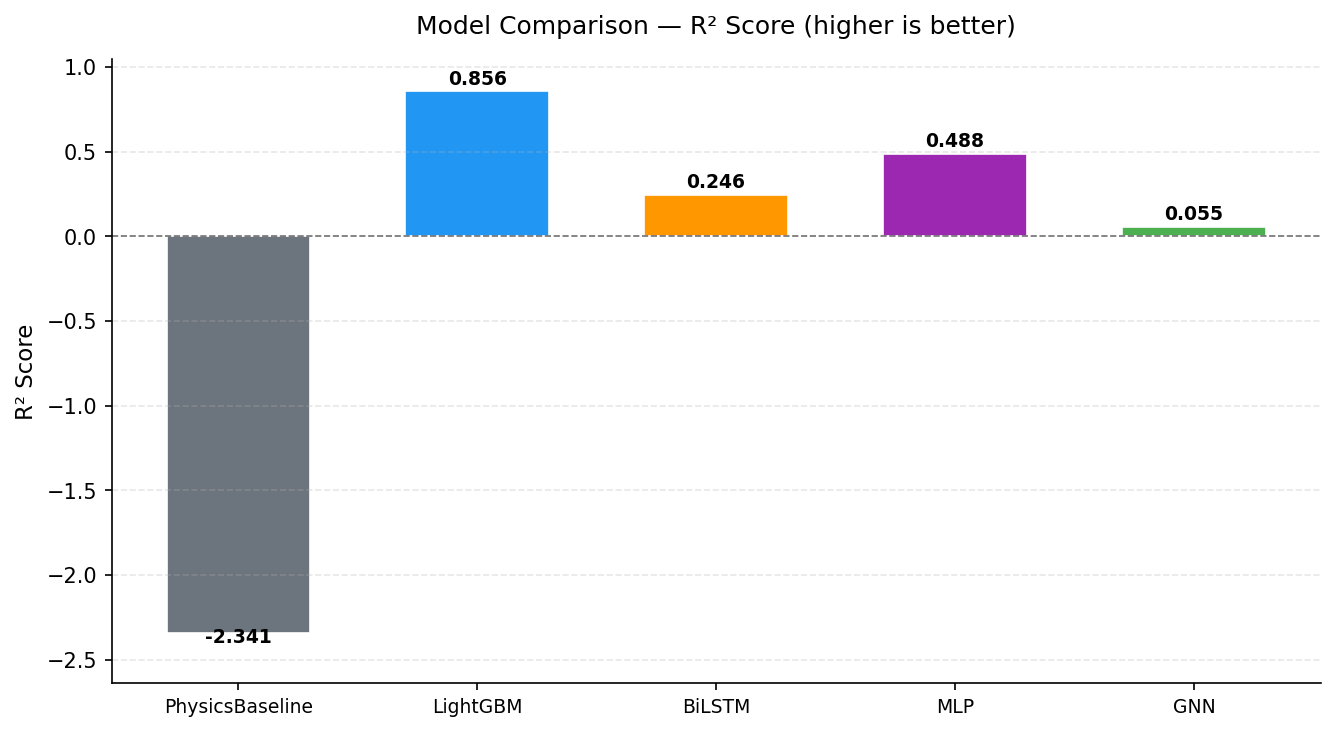
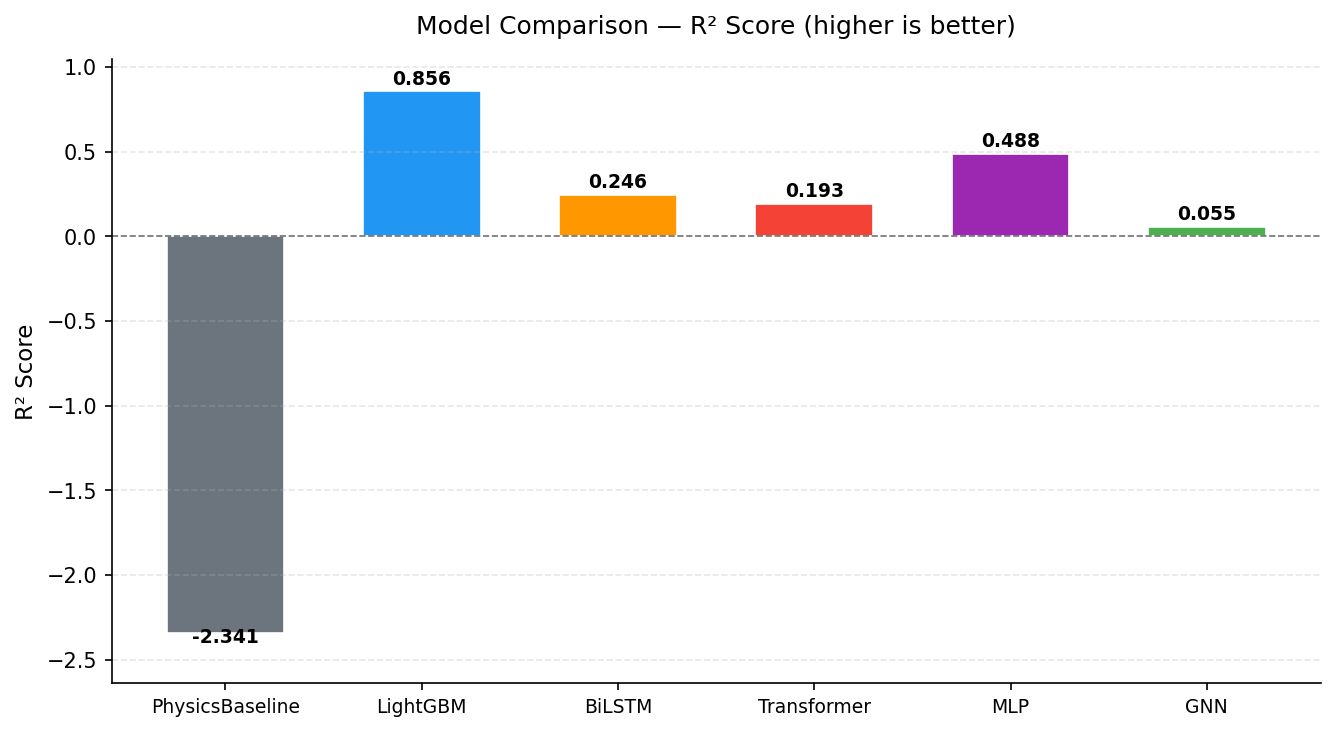
updated evaluation plots to include transformer

diff --git a/src/evaluate_models.py b/src/evaluate_models.py
@@ -5,6 +5,7 @@
 # - residual plots for each model
 # - formatted comparison table
 #
+# run this after all models have been trained
 # https://www.geeksforgeeks.org/matplotlib-tutorial/
 # https://www.geeksforgeeks.org/data-visualisation-using-matplotlib-for-ml/
 # https://www.geeksforgeeks.org/python-seaborn-tutorial/
@@ -27,16 +28,18 @@ MODEL_COLOURS = {
     'LightGBM':        '#2196F3',
     'BiLSTM':          '#FF9800',
     'MLP':             '#9C27B0',
-    'GNN':             '#4CAF50'
+    'GNN':             '#4CAF50',
+    'Transformer':     '#F44336'
 }
 
-MODEL_ORDER = ['PhysicsBaseline', 'LightGBM', 'BiLSTM', 'MLP', 'GNN']
+MODEL_ORDER = ['PhysicsBaseline', 'LightGBM', 'BiLSTM', 'Transformer', 'MLP', 'GNN']
 
 # prediction file paths - one per model
 PRED_FILES = {
     'PhysicsBaseline': 'results/predictions/physics_baseline_predictions.csv',
     'LightGBM':        'results/predictions/lightgbm_predictions.csv',
     'BiLSTM':          'results/predictions/lstm_predictions.csv',
+    'Transformer':     'results/predictions/transformer_predictions.csv',
     'MLP':             'results/predictions/mlp_predictions.csv',
     'GNN':             'results/predictions/gnn_predictions.csv',
 }
@@ -192,7 +195,7 @@ plt.savefig('results/plots/residuals_all.png', dpi=150, bbox_inches='tight')
 plt.close()
 print("Saved results/plots/residuals_all.png")
 
-# plot 5: summary heatmap
+# plot 5: summary heatmap 
 # normalise metrics so they're on the same scale for the heatmap
 # R2: higher is better, RMSE/MAE: lower is better (invert so higher = better)
 heatmap_df = metrics_df.set_index('Model')[['R2', 'RMSE', 'MAE']].copy()
